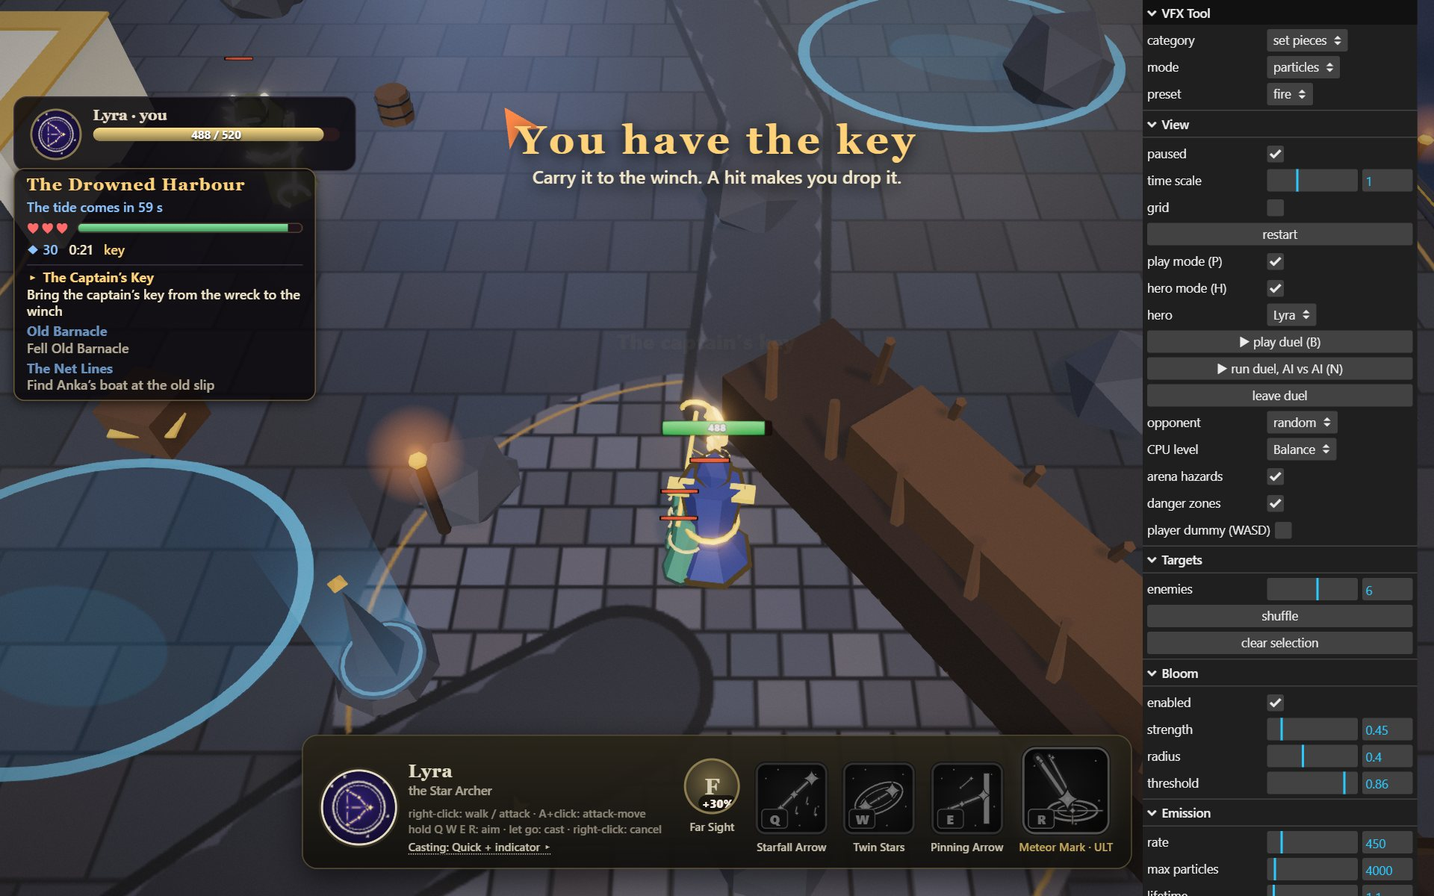
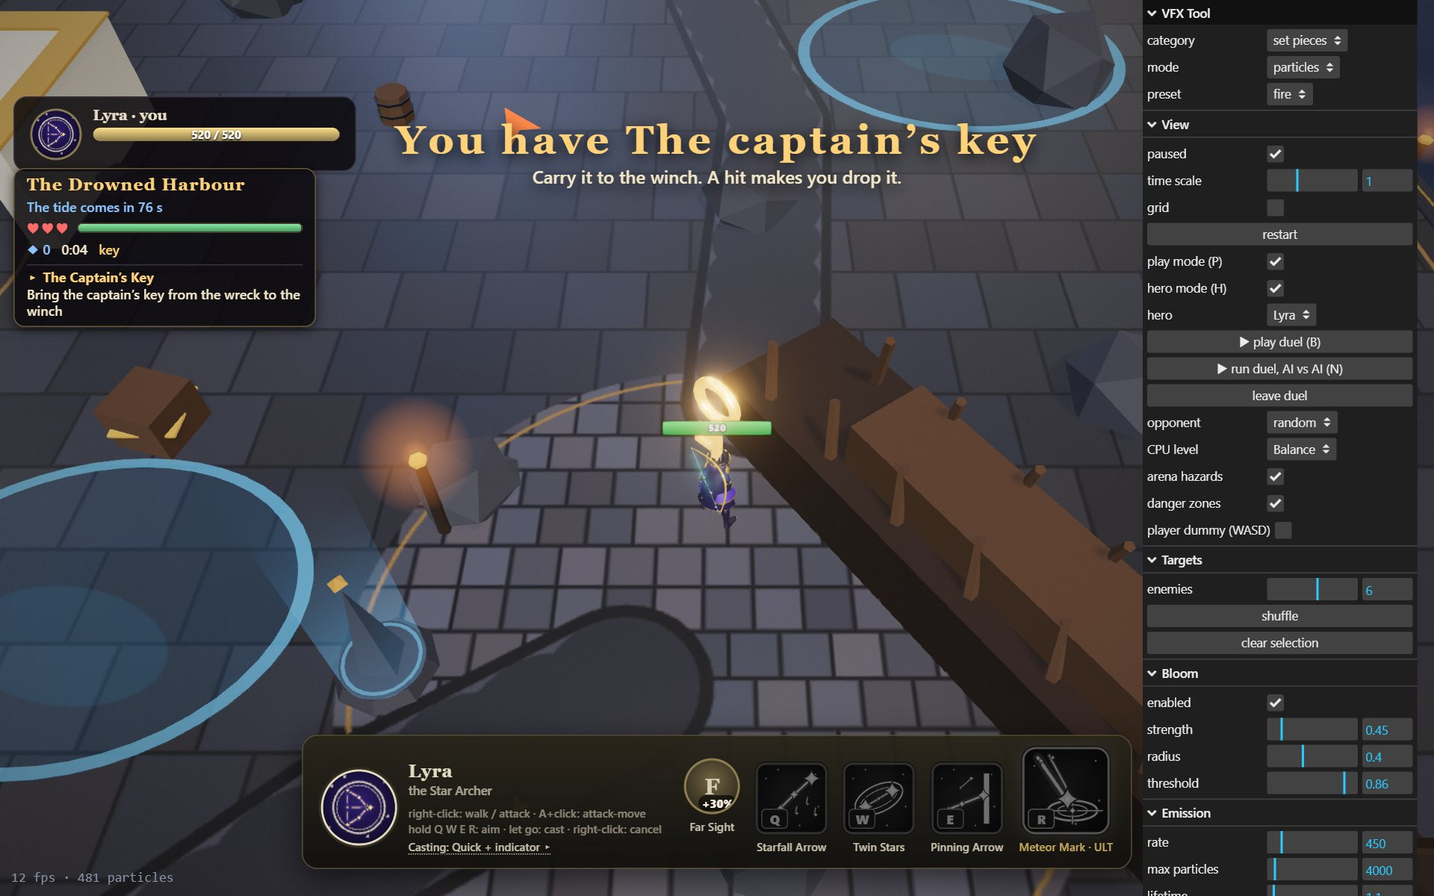
Tower worlds, stage 1A: a race win sets the rival as ally, the door is started outside the duel's frame, marks tap above the touch layer, floor data holds what the loop printed, final route numbers

diff --git a/pipeline/tools/world-tool.js b/pipeline/tools/world-tool.js
@@ -101,6 +101,7 @@
   function decide() {
     const z = game.zone, run = game.run, def = game.floor, ctx = z.ctx, hero = ctx.hero, q = z.quests;
     const person = (id) => def.people.find((p) => p.id === id);
+    const byRole = (role) => def.people.find((p) => p.role === role);
     const near = (p) => dist(hero, p.at) < 2.8;
     const toPerson = (id, why) => { const p = person(id); const at = { x: p.at.x + Math.sin(p.face) * 1.5, z: p.at.z + Math.cos(p.face) * 1.5 }; return { goal: at, why, act: near(p) ? () => z.people.auto(id) : null }; };
     const hp = run.hp;
@@ -124,12 +125,12 @@
       if (st.done && !st.handedIn) return toPerson(qd.giver, `hand in ${qd.id}`);
     }
     // Heal at the trader when hurt and able.
-    if (hp < 0.5 && run.shards >= def.shop.heal && ![...z.packs.values()].some((p) => p.state === 'awake')) return toPerson('pip', 'heal');
+    if (byRole('trader') && hp < 0.5 && run.shards >= def.shop.heal && ![...z.packs.values()].some((p) => p.state === 'awake')) return toPerson(byRole('trader').id, 'heal');
     const untaken = def.quests.find((qd) => !run.q(qd.id).taken);
     if (untaken) return toPerson(untaken.giver, `take ${untaken.id}`);
     // The race, once: its start is at the rival.
-    const rv = person('zephyr');
-    if (run.rival === 'none' && rv) return toPerson('zephyr', 'race: start');
+    const rv = byRole('rival');
+    if (run.rival === 'none' && rv) return toPerson(rv.id, 'race: start');
     if (run.rival === 'running') return { goal: def.rival.to, why: 'race: run' };
     // A waystone or a cache a short way off is touched on the way.
     for (const w of def.waystones) if (!run.waystones.includes(w.id) && dist(hero, w.at) < 16) return { goal: w.at, why: `waystone ${w.id}` };
@@ -153,10 +154,10 @@
     for (const w of def.waystones) if (!run.waystones.includes(w.id)) return { goal: w.at, why: `waystone ${w.id}` };
     for (const c of def.caches) if (!run.caches.includes(c.id)) return { goal: c.at, why: `cache ${c.id}` };
     if (!run.lore.includes(def.lore.id)) return { goal: def.lore.at, why: 'lore stone' };
-    const door = (id) => def.doors.find((d) => d.id === id);
-    if (hp < 0.6 && run.shards >= def.shop.heal) return toPerson('pip', 'heal');
+    const door = (piece) => def.doors.find((d) => d.piece === piece);
+    if (byRole('trader') && hp < 0.6 && run.shards >= def.shop.heal) return toPerson(byRole('trader').id, 'heal');
     if (!run.has('trial') && door('trial')) return { goal: door('trial').at, why: 'door: trial' };
-    if (!run.has('ruler') && run.opened.includes('lair')) return { goal: door('lair').at, why: 'door: ruler' };
+    if (!run.has('ruler') && door('ruler') && (!door('ruler').wall || run.opened.includes(door('ruler').id))) return { goal: door('ruler').at, why: 'door: ruler' };
     if (run.has('ruler') && !run.has('gate')) return { goal: door('gate').at, why: 'door: gate' };
     return { goal: null, why: 'nothing left' };
   }
@@ -256,7 +257,7 @@
           { verb: 'fell-named', text: 'fell the named', pack: 'barnacle' },
           { verb: 'light', text: 'light', things: [{ id: 't1', at: { x: 10, z: Z + 14 } }, { id: 't2', at: { x: 14, z: Z + 14 } }], seconds: 2 },
           { verb: 'hold', text: 'hold', at: { x: 0, z: Z + 20 }, r: 3, seconds: 8, waves: { kinds: ['docker', 'docker'], every: 4 } },
-          { verb: 'carry', text: 'carry', item: 'key', from: { x: -6, z: Z + 26 }, to: { x: 4, z: Z + 26 }, r: 2, opens: 'lair' },
+          { verb: 'carry', text: 'carry', item: 'key', itemName: 'The key', toName: 'the post', from: { x: -6, z: Z + 26 }, to: { x: 4, z: Z + 26 }, r: 2, opens: 'lair' },
           { verb: 'open', text: 'open the test door', door: 'test-door' },
           { verb: 'lead', text: 'lead', name: 'Tam', from: { x: -4, z: Z + 20 }, r: 2.5, path: [{ x: 0, z: Z + 24 }, { x: 4, z: Z + 28 }] },
         ],
@@ -274,7 +275,7 @@
       storm: { kind: 'storm', name: 'The storm', blurb: 'test', every: 30, lasts: 20, warn: 4, burn: 0.03, width: 10 },
       dark: { kind: 'dark', name: 'The dark', blurb: 'test', radius: 22, lit: 40, lights: [{ x: 24, z: Z - 19 }] },
       paths: { kind: 'paths', name: 'The wood moves', blurb: 'test', every: 10, walls: [{ a: { x: -8, z: Z + 20 }, b: { x: 8, z: Z + 20 }, r: 0.5, height: 3, set: 0 }, { a: { x: -8, z: Z + 10 }, b: { x: 8, z: Z + 10 }, r: 0.5, height: 3, set: 1 }] },
-      sides: { kind: 'sides', name: 'The war', blurb: 'test', banners: [{ id: 'red', name: 'red banner', at: { x: -3, z: Z + 36 }, packs: ['market'] }, { id: 'blue', name: 'blue banner', at: { x: 3, z: Z + 36 }, packs: ['caves'] }] },
+      sides: { kind: 'sides', name: 'The war', blurb: 'test', banners: [{ id: 'red', name: 'red banner', color: 0xb03030, at: { x: -3, z: Z + 36 }, packs: ['market'] }, { id: 'blue', name: 'blue banner', color: 0x3060b0, at: { x: 3, z: Z + 36 }, packs: ['caves'] }] },
     };
     for (const [kind, law] of Object.entries(lawDefs)) {
       try {

diff --git a/src/tower/world/game.ts b/src/tower/world/game.ts
@@ -42,6 +42,8 @@ export class WorldGame {
   /** How many times a floor began again (no life left). */
   restarts = 0;
   private restartIn = -1;
+  /** A door walked into, to be started by the next `tick`. */
+  private door: DoorDef | null = null;
   private hero: string;
   private raf = 0;
   private last = 0;
@@ -117,6 +119,7 @@ export class WorldGame {
   }
 
   private leave() {
+    this.door = null;
     if (this.api.duel.on) this.api.duel.stop();
     this.zone = null;
   }
@@ -131,6 +134,11 @@ export class WorldGame {
   /** Once a frame while a person plays; the tool calls it between steps. The zone's own work runs inside the duel's frame. */
   tick(dt: number) {
     this.hud.update(dt);
+    if (this.door) {
+      const d = this.door;
+      this.door = null;
+      this.startPiece(d);
+    }
     for (const w of stubWaits.splice(0)) {
       w.left -= dt;
       if (w.left > 0) stubWaits.push(w);
@@ -224,8 +232,17 @@ export class WorldGame {
 
   // --- doors and set pieces ----------------------------------------------------------------------------------------------
 
-  /** The hero walked into a door that is ready: the zone is put away and the piece starts. */
+  /**
+   * The hero walked into a door that is ready. It is asked from inside the duel's frame (the zone's own update), so it is only noted
+   * here and done by `tick`, outside the frame: a piece that starts its own fight must not do it in the middle of this one
+   * (as `TowerRun.later` keeps what waits for the next pump).
+   */
   enterDoor(d: DoorDef) {
+    if (this.piece || this.door || !this.zone) return;
+    this.door = d;
+  }
+
+  private startPiece(d: DoorDef) {
     if (this.piece || !this.zone) return;
     const { run, floor } = this;
     this.piece = d.piece;
@@ -249,7 +266,7 @@ export class WorldGame {
     if (out.won) {
       if (!run.won.includes(d.piece)) run.won.push(d.piece);
       run.shards += d.piece === 'ruler' ? 40 : d.piece === 'trial' ? 20 : 0;
-      after = d.piece === 'trial' ? () => this.relic() : d.piece === 'ruler' ? () => this.hud.say('The Drowned Captain falls', 'The gate up is unsealed', 3.2) : null;
+      after = d.piece === 'trial' ? () => this.relic() : d.piece === 'ruler' ? () => this.hud.say(`${d.name}: its ruler falls`, 'The gate up is unsealed', 3.2) : null;
       if (d.piece === 'rival') { run.rival = 'won'; run.ally = this.floor.rival.hero; after = () => this.offer(`${this.floor.rival.hero}'s boon`); }
     } else if (d.piece === 'ruler' || d.piece === 'gate') {
       // A lost ruler or gate costs a life, as a fall in the zone does; the piece may be tried again.

diff --git a/src/tower/world/def.ts b/src/tower/world/def.ts
@@ -51,7 +51,7 @@ export type Step =
   | { verb: 'fell-named'; text: string; pack: string }
   | { verb: 'light'; text: string; things: { id: string; at: Spot }[]; seconds: number }
   | { verb: 'hold'; text: string; at: Spot; r: number; seconds: number; waves: { kinds: string[]; every: number } }
-  | { verb: 'carry'; text: string; item: string; from: Spot; to: Spot; r: number; /** a door that opens when it is delivered (it is an `open` that the delivery does) */ opens?: string }
+  | { verb: 'carry'; text: string; item: string; /** What it is called on the screen, and where it goes. */ itemName: string; toName: string; from: Spot; to: Spot; r: number; /** a door that opens when it is delivered (it is an `open` that the delivery does) */ opens?: string }
   | { verb: 'open'; text: string; door: string }
   | { verb: 'lead'; text: string; name: string; from: Spot; path: Spot[]; r: number };
 export type Verb = Step['verb'];
@@ -108,10 +108,12 @@ export type LawDef =
   | { kind: 'storm'; name: string; blurb: string; every: number; lasts: number; warn: number; /** where the band starts crossing and which way (z falls) */ burn: number; width: number }
   | { kind: 'dark'; name: string; blurb: string; radius: number; lit: number; lights: Spot[] }
   | { kind: 'paths'; name: string; blurb: string; every: number; walls: { a: Spot; b: Spot; r: number; height: number; set: 0 | 1 }[] }
-  | { kind: 'sides'; name: string; blurb: string; banners: { id: string; name: string; at: Spot; packs: string[] }[] };
+  | { kind: 'sides'; name: string; blurb: string; banners: { id: string; name: string; color?: number; at: Spot; packs: string[] }[] };
 
 export interface RivalDef {
   hero: string;
+  /** What the race runs to, in words ("the lighthouse"). */
+  goal: string;
   /** `race`: reach `to` before the runner, in the zone. `duel`: a door to a set piece. */
   mode: 'race' | 'duel';
   /** Where Zephyr stands and talks. */

diff --git a/src/tower/world/law.ts b/src/tower/world/law.ts
@@ -1,4 +1,5 @@
 import * as THREE from 'three';
+import { RING } from '../../arenas/common';
 import type { Obstacle } from '../../obstacles';
 import type { RoomFloor } from '../../raid/types';
 import type { ZoneCtx } from './ctx';
@@ -134,7 +135,7 @@ function tide(z: ZoneCtx, d: Extract<LawDef, { kind: 'tide' }>): Law {
 
 /** A band of dust that crosses the zone from north to south: it burns whoever stands in it unless something stands between them and the wind. */
 function storm(z: ZoneCtx, d: Extract<LawDef, { kind: 'storm' }>): Law {
-  const R = z.def.ring, mid = { x: z.def.start.x, z: z.def.start.z - 34 };
+  const R = z.def.ring, mid = { x: RING.x, z: RING.z + 5.5 };
   const mat = new THREE.MeshBasicMaterial({ color: 0xd8b070, transparent: true, opacity: 0, depthWrite: false, blending: THREE.NormalBlending, side: THREE.DoubleSide });
   const geo = new THREE.BoxGeometry(R * 2.2, 6, d.width);
   const band = new THREE.Mesh(geo, mat);
@@ -277,7 +278,7 @@ function sides(z: ZoneCtx, d: Extract<LawDef, { kind: 'sides' }>): Law {
   let taken: string | null = (z.run as unknown as { banner?: string }).banner ?? null;
   const flags = d.banners.map((b) => {
     const pole = new THREE.Mesh(new THREE.CylinderGeometry(0.06, 0.06, 3.2, 5), new THREE.MeshStandardMaterial({ color: 0x4a3626 }));
-    const cloth = new THREE.Mesh(new THREE.PlaneGeometry(1.3, 0.9), new THREE.MeshBasicMaterial({ color: b.id === 'red' ? 0xb03030 : 0x3060b0, side: THREE.DoubleSide }));
+    const cloth = new THREE.Mesh(new THREE.PlaneGeometry(1.3, 0.9), new THREE.MeshBasicMaterial({ color: b.color ?? 0xb03030, side: THREE.DoubleSide }));
     pole.position.set(b.at.x, 1.6, b.at.z);
     cloth.position.set(b.at.x + 0.7, 2.7, b.at.z);
     z.p.group.add(pole, cloth);

diff --git a/src/tower/world/people.ts b/src/tower/world/people.ts
@@ -120,7 +120,7 @@ export class People {
       buy('hint', s.hint, () => z.def.caches.some((c) => !run.caches.includes(c.id) && !run.hintShown.includes(c.id)), 'A hint', 'Shows where a cache lies', 'blue');
     } else if (p.role === 'rival') {
       lines = [...(z.def.rival.lines)];
-      if (run.rival === 'none') buttons.push({ label: 'Race', sub: 'To the lighthouse. First to touch its foot wins a boon', tone: 'red', click: () => { hud.closeCard(); this.startRace(); } });
+      if (run.rival === 'none') buttons.push({ label: 'Race', sub: `To ${z.def.rival.goal}. First there wins a boon`, tone: 'red', click: () => { hud.closeCard(); this.startRace(); } });
       else lines = [run.rival === 'won' ? 'You beat me. Fair enough. Take my luck with you.' : run.rival === 'lost' ? 'Too slow. Try again on the next floor.' : 'On your marks.'];
     } else {
       const qs = this.available(p);
@@ -168,7 +168,7 @@ export class People {
     this.raceFig = fig;
     this.race = { t: 0, route: r.route, len, speed: 4 * (r.pace ?? 0.92) };
     z.run.rival = 'running';
-    z.banner('Race!', 'To the lighthouse: first to its foot', 2.6);
+    z.banner('Race!', `To ${r.goal}: first there wins`, 2.6);
     z.save();
   }
 
@@ -199,6 +199,8 @@ export class People {
     this.race = null;
     z.run.rival = result;
     if (result === 'won') {
+      // The one beaten fights beside the hero against the ruler.
+      z.run.ally = r.hero;
       z.banner('You win the race', `${r.hero} is beaten: a boon`, 3);
       if (r.boon) z.offerBoon(`${r.hero}'s boon`);
       z.pay(15);

diff --git a/src/tower/world/floors/harbour.ts b/src/tower/world/floors/harbour.ts
@@ -57,7 +57,7 @@ export const harbour: FloorDef = {
       steps: [
         { verb: 'fell', text: 'Clear the fish market', packs: ['market'] },
         { verb: 'light', text: 'Light the lighthouse', things: [{ id: 'lighthouse', at: at(24, -19) }], seconds: 2 },
-        { verb: 'carry', text: 'Bring the captain’s key from the wreck to the winch', item: 'key', from: at(26, 8.5), to: at(13.5, 38.5), r: 2.2, opens: 'lair' },
+        { verb: 'carry', text: 'Bring the captain’s key from the wreck to the winch', item: 'key', itemName: 'The captain’s key', toName: 'the winch', from: at(26, 8.5), to: at(13.5, 38.5), r: 2.2, opens: 'lair' },
       ],
       outro: ['The chain falls. The Drowned Captain’s door stands open, far in the north. Take your time, then go in.'],
       reward: { shards: 60, boon: true },
@@ -104,7 +104,7 @@ export const harbour: FloorDef = {
     { id: 'gate', piece: 'gate', name: 'The gate up', at: at(-15, 40), r: 2.2, needs: { won: 'ruler' }, locked: 'The gate is sealed. Its warden answers only once the Drowned Captain has fallen.' },
   ],
   rival: {
-    hero: 'Zephyr', mode: 'race', at: at(4, 24), to: at(24, -19), r: 3, pace: 0.92, boon: true,
+    hero: 'Zephyr', goal: 'the lighthouse', mode: 'race', at: at(4, 24), to: at(24, -19), r: 3, pace: 0.5, boon: true,
     route: [at(4, 24), at(10, 16), at(10, 2), at(12, -6), at(17, -14), at(23.5, -17.8), at(24, -19)],
     lines: ['Another climber? I am Zephyr, and I am faster. To the lighthouse and back: whoever touches the foot first. Care to try?'],
   },

diff --git a/src/tower/world/quests.ts b/src/tower/world/quests.ts
@@ -221,7 +221,8 @@ export class Quests {
     if (z.run.carry?.held) {
       this.carried ??= this.keyMesh();
       if (!this.carried.parent) z.p.group.add(this.carried);
-      this.carried.position.set(hero.x, 3.0 + Math.sin(this.t * 3) * 0.08, hero.z);
+      this.carried.position.set(hero.x, 3.7 + Math.sin(this.t * 3) * 0.08, hero.z);
+      this.carried.scale.setScalar(1.8);
       this.carried.rotation.y += dt * 2;
     } else if (this.carried?.parent) this.carried.removeFromParent();
   }
@@ -357,7 +358,7 @@ export class Quests {
     this.key.pillar.mesh.position.set(at.x, 0.04, at.z);
   }
 
-  /** The captain's key, drawn: a gold bow, a shaft and two teeth. */
+  /** The carried thing, drawn as a key: a gold bow, a shaft and two teeth. */
   private keyMesh() {
     const group = new THREE.Group();
     const gold = new THREE.MeshStandardMaterial({ color: 0xffd27a, metalness: 0.8, roughness: 0.3, emissive: 0xffb050, emissiveIntensity: 0.7 });
@@ -381,8 +382,8 @@ export class Quests {
     z.run.carry = { item: step.item, held: true, at: { x: z.hero.x, z: z.hero.z } };
     z.mute(true);
     z.speed('carry', CARRY_SLOW);
-    z.say('The captain’s key', '#ffd27a', z.hero);
-    z.banner('You have the key', 'Carry it to the winch. A hit makes you drop it.', 2.6);
+    z.say(step.itemName, '#ffd27a', z.hero);
+    z.banner(`You have ${step.itemName}`, `Carry it to ${step.toName}. A hit makes you drop it.`, 2.6);
     z.save();
   }
 

diff --git a/src/tower/world/hud.ts b/src/tower/world/hud.ts
@@ -196,7 +196,7 @@ export class WorldHud {
         el = document.createElement('button');
         el.type = 'button';
         el.dataset.mark = m.id;
-        el.style.cssText = 'position:fixed;left:0;top:0;z-index:4;width:44px;height:44px;margin:-22px 0 0 -22px;border-radius:50%;border:2px solid #8a7a52;background:rgba(14,11,12,0.82);font:800 22px/1 ui-serif,Georgia,serif;cursor:pointer;display:flex;align-items:center;justify-content:center;pointer-events:auto;padding:0;touch-action:manipulation;position:fixed;';
+        el.style.cssText = 'position:fixed;left:0;top:0;z-index:7;width:44px;height:44px;margin:-22px 0 0 -22px;border-radius:50%;border:2px solid #8a7a52;background:rgba(14,11,12,0.82);font:800 22px/1 ui-serif,Georgia,serif;cursor:pointer;display:flex;align-items:center;justify-content:center;pointer-events:auto;padding:0;touch-action:manipulation;position:fixed;';
         el.addEventListener('click', (e) => { e.stopPropagation(); this.marks.get(m.id) && (el as HTMLButtonElement & { act?: () => void }).act?.(); });
         document.body.append(el);
         this.marks.set(m.id, el);

diff --git a/pipeline/designs/tower-worlds-build.md b/pipeline/designs/tower-worlds-build.md
@@ -247,15 +247,18 @@ named, 20 to 60 a quest, 25, 30 and 20 the caches. The tide: first at 80 s, 15 s
 |---|---|
 | `npx tsc --noEmit -p .` and `npm run build` | Both pass |
 | The weekly Tower still starts: `_tower(['Lyra'], 1, { upTo: 2 })` | Floors 1 and 2 cleared, no error |
-| `_worldRoute`, **Lyra** (ranged) | Cleared camp to gate in 768 s of game time (12.8 min), 0 falls, 79 % health left, 29 kills, 407 shards, four stars; 59 s of wall time |
-| `_worldRoute`, **Bram** (melee) | Cleared in 463 s, 0 falls, 60 % health, four stars |
-| `_worldRoute`, **Isolde** (staff) | Cleared in 1180 s with **2 falls and one restart**: she lost all three lives once, the floor began again from its camp, then she cleared it; two stars (cleared, every quest) |
-| Can a hero lose all three lives? | Yes (Isolde, above) |
-| How long a floor takes | 8 to 13 minutes of game time for a hero that does not die; the par for the fourth star is 13 |
+| `_worldRoute`, **Lyra** (ranged), final tree | Cleared camp to gate in 604 s of game time (10.1 min), 0 falls, 88 % health left, 19 kills, 367 shards, four stars, won the race; 116 s of wall time. (An earlier tree: 768 s, 79 % health) |
+| `_worldRoute`, **Bram** (melee), final tree | Cleared in 517 s, 0 falls, 83 % health, four stars, lost the race |
+| `_worldRoute`, **Isolde** (staff), final tree | Cleared in 917 s with 1 fall (lives 2, a boon gave one back), 90 % health, stars for clearing and every quest only (a life lost, over the par), won the race. An earlier tree ended with **2 falls and one restart**: she lost all three lives, the floor began again from its camp, then she cleared it in 1180 s |
+| Can a hero lose all three lives? | Yes: Isolde did on the earlier tree (above); the autopilot did it, not a person. It then lost none of three on the final tree, so it is a matter of luck on this floor, not of the floor |
+| How long a floor takes | 8.5 to 10 minutes of game time for a hero that does not die (15 with one fall); the par for the fourth star is 13 |
 | Reload mid-floor | The route was stopped at 330 s and the page reloaded; `_worldRoute({ resume: true })` continued from the save (the last one, at about 300 s): quests, caches, waystones, shards, lives, the opened lair and the cleared packs came back and the floor was cleared. Only `tower.world.*` keys were written. (The first try showed the cleared packs were not kept; fixed, and the second try kept all four) |
-| Every verb once, `_worldVerbs` | A scratch quest with all eight verbs, played by the bot: all done in 111 s, no fall, no error |
-| Every law once, `_worldVerbs` | `tide`: warned 7 s before; a hero in the flood lost 90 hp in 9 s and walked at 0.6; on dry ground it lost nothing. `storm`: a hero in the open band lost 32 hp in 1.6 s. `dark`: the layer is there and its clear circle grew from 22 to 62 near a lit thing. `paths`: the walls swapped on the clock; the list swap and one route took 1.6 ms. `sides`: a banner taken, its pack off, the other pack leashed at 40 m |
-| Console | No `console.error` and no page error from the page's own code in any run. The one error line is the browser asking for `/favicon.ico` (404), which the tool page has always had |
+| Real taps, 375 x 812 with touch (Playwright's own `tap`, the page in play mode) | A tap on Gus's mark walked the hero there and opened the card; "Take" took the quest and the hero stayed put; Anka the same; "Hand in" paid 60 shards and showed the three boon cards, a tap on one took it; "Step to the market stone" moved the hero to it; the trader's "A hint" cost 15 and set the hint. The first try could not tap a mark at all: the touch layer (`src/touch.ts`, z-index 5) lay over it; the marks are z-index 7 now |
+| The net caster's root | 7 nets in 20 s on a hero that stood in range, each a `root` of 0.8 s that took (329 frames rooted) |
+| The race, by the bot | Bot goal straight to the lighthouse, rival at 0.5 of 4 m/s: Lyra and Isolde won, Bram lost (the autopilot walks about 2.5 m/s and a melee hero is slower still). A forced win (the hero put at the lighthouse) gave `rival: won`, a boon, 15 shards and `ally: Zephyr`, and `ally` reached `PieceIn` of the ruler. The rival's pace was 0.92 at first and the bot lost by under a second on every hero; a person who runs straight beats the 0.5 pace by about 7 s |
+| Every verb once, `_worldVerbs` | A scratch quest with all eight verbs, played by the bot: all done in 142 s (the final tree), no fall, no error |
+| Every law once, `_worldVerbs` | `tide`: warned 7 s before; a hero in the flood lost 90 hp in 9 s and walked at 0.6; on dry ground it lost nothing. `storm`: a hero in the open band lost 32 hp in 1.6 s. `dark`: the layer is there and its clear circle grew from 22 to 62 near a lit thing. `paths`: the walls swapped on the clock; the list swap and one route took 1.2 ms. `sides`: a banner taken, its pack off, the other pack leashed at 40 m |
+| Console | No `console.error` and no page error from the page's own code in any run. The one error line is the browser asking for `/favicon.ico` (404; the message's `location.url` says so), which the tool page has always had |
 
 **Pictures** (the game's own camera and the page's own HUD, headless, `docs/tower/worlds/f1-*.jpg`, each looked at): `f1-camp` (the people, Zephyr and their marks), `f1-talk` and `f1-trader`
 (the cards), `f1-quests` and `f1-quests-hud` (the list), `f1-pack-market`, `f1-enemy-docker` / `-netter` / `-crab` (crops of the market pack), `f1-pack-wreck`, `f1-elite-mate`,
@@ -283,10 +286,11 @@ sigil, `tower.world.floor` set to the next floor). A piece reports `hp` as a sha
 **Not done, not verified, or poor:**
 
 - No menu entry, no clip, no phone run. The 375 px pictures are the page in a narrow headless window with touch on, not a phone. The frame cost of the whole zone with its quests, people and law was not measured again (stage 0 measured the bare zone).
-- The set pieces are the stub: `setPieceStarter` is not tried against a real piece. The zone is gone (the duel is stopped) before a starter is called, and is built again from the run when it answers.
-- Floor 1 is easy for the autopilot: two of three heroes never fell, and the bot waits out every tide on dry ground, which a person may not. The numbers are not tuned; the par of 13 minutes is a guess that Lyra just meets.
-- The race is won by walking straight (the rival runs at 0.92 of 4 m/s). The bot lost it in the two routes where the result was read (Isolde's and the reload test's); Lyra's and Bram's were not read, and the route report does not name the result.
+- The set pieces are the stub: `setPieceStarter` is not tried against a real piece. The door is noted inside the duel's frame and done by `tick` outside it, then the zone is gone (the duel is stopped) before the starter is called, and it is built again from the run when it answers.
+- Floor 1 is easy for the autopilot: two of three heroes never fell, and the bot waits out every tide on dry ground, which a person may not. The numbers are not tuned; the par of 13 minutes is a guess that all three met except where Isolde fell.
+- The race is won by a hero that does not stop (the rival runs at 0.5 of 4 m/s, a pace picked so that the autopilot can win it); Bram, a melee hero, still lost it. Its start is a card button, so a person who never talks to Zephyr never races.
 - `storm`, `dark`, `paths` and `sides` are built and tried once each in the scratch zone, and not played in a floor and not drawn well: the storm band is a flat tinted box (shelter was not tried, only the open band), `dark` is a page layer with no lights drawn, `paths` has plain boxes for walls, `sides` has two poles for flags. Stage 2 owes each its floor's data, its look and a bot try. `hold`'s waves and `lead`'s road were tried on floor 1 only.
+- Nothing follows the floor's result card: no next floor (floor 2 does not exist yet), no leave button, and the keeper's "step to a waystone" is the only way back through the zone. The `Leave` button of the weekly Tower has no twin here.
 - A pack's wounds are not kept in the run (a pack that is rebuilt is whole); only "cleared" is.
 - Looks: the cache is a half barrel with a glow, the key over the hero's head is small, the people stand in a T-pose for the first second until their models load, the enemy crops are of the market's units rather than one pack a kind.
 - On a phone the zone's HUD sits under the hero's own panel (top 158 px), which is right only while that panel is shown.
